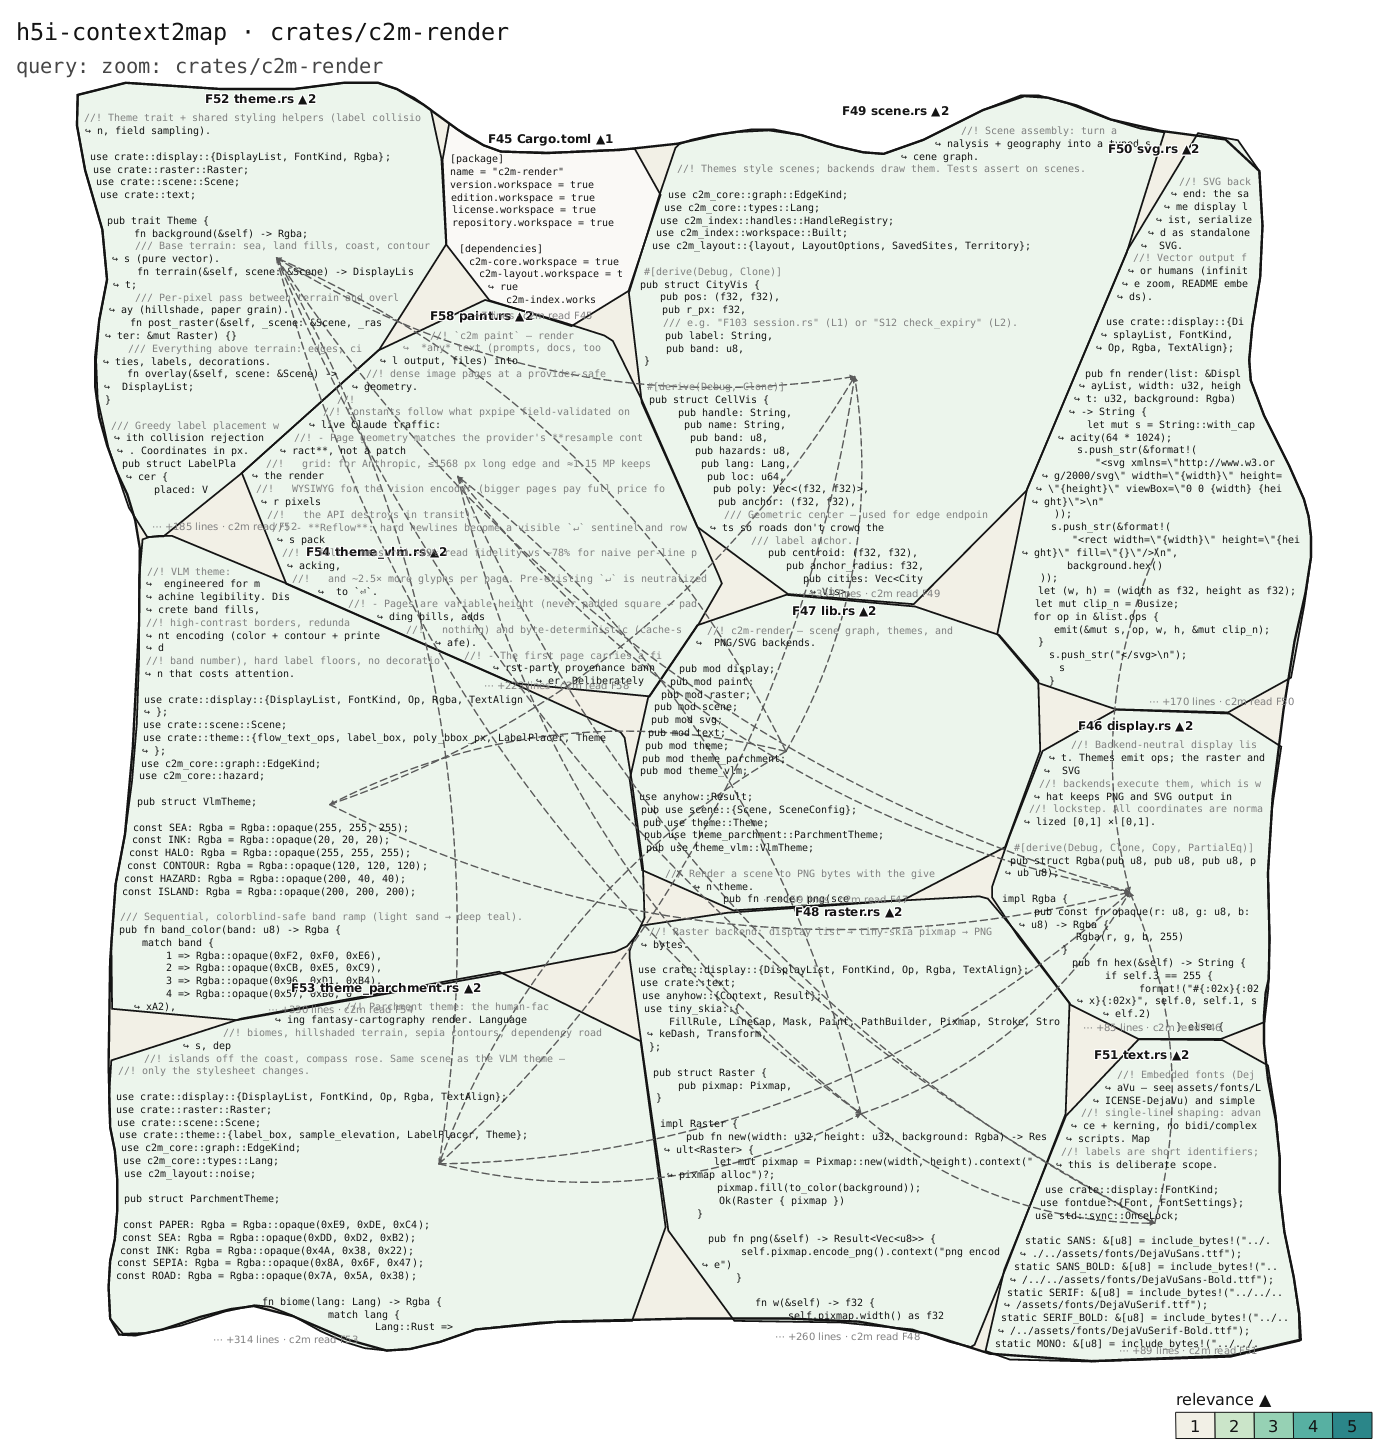
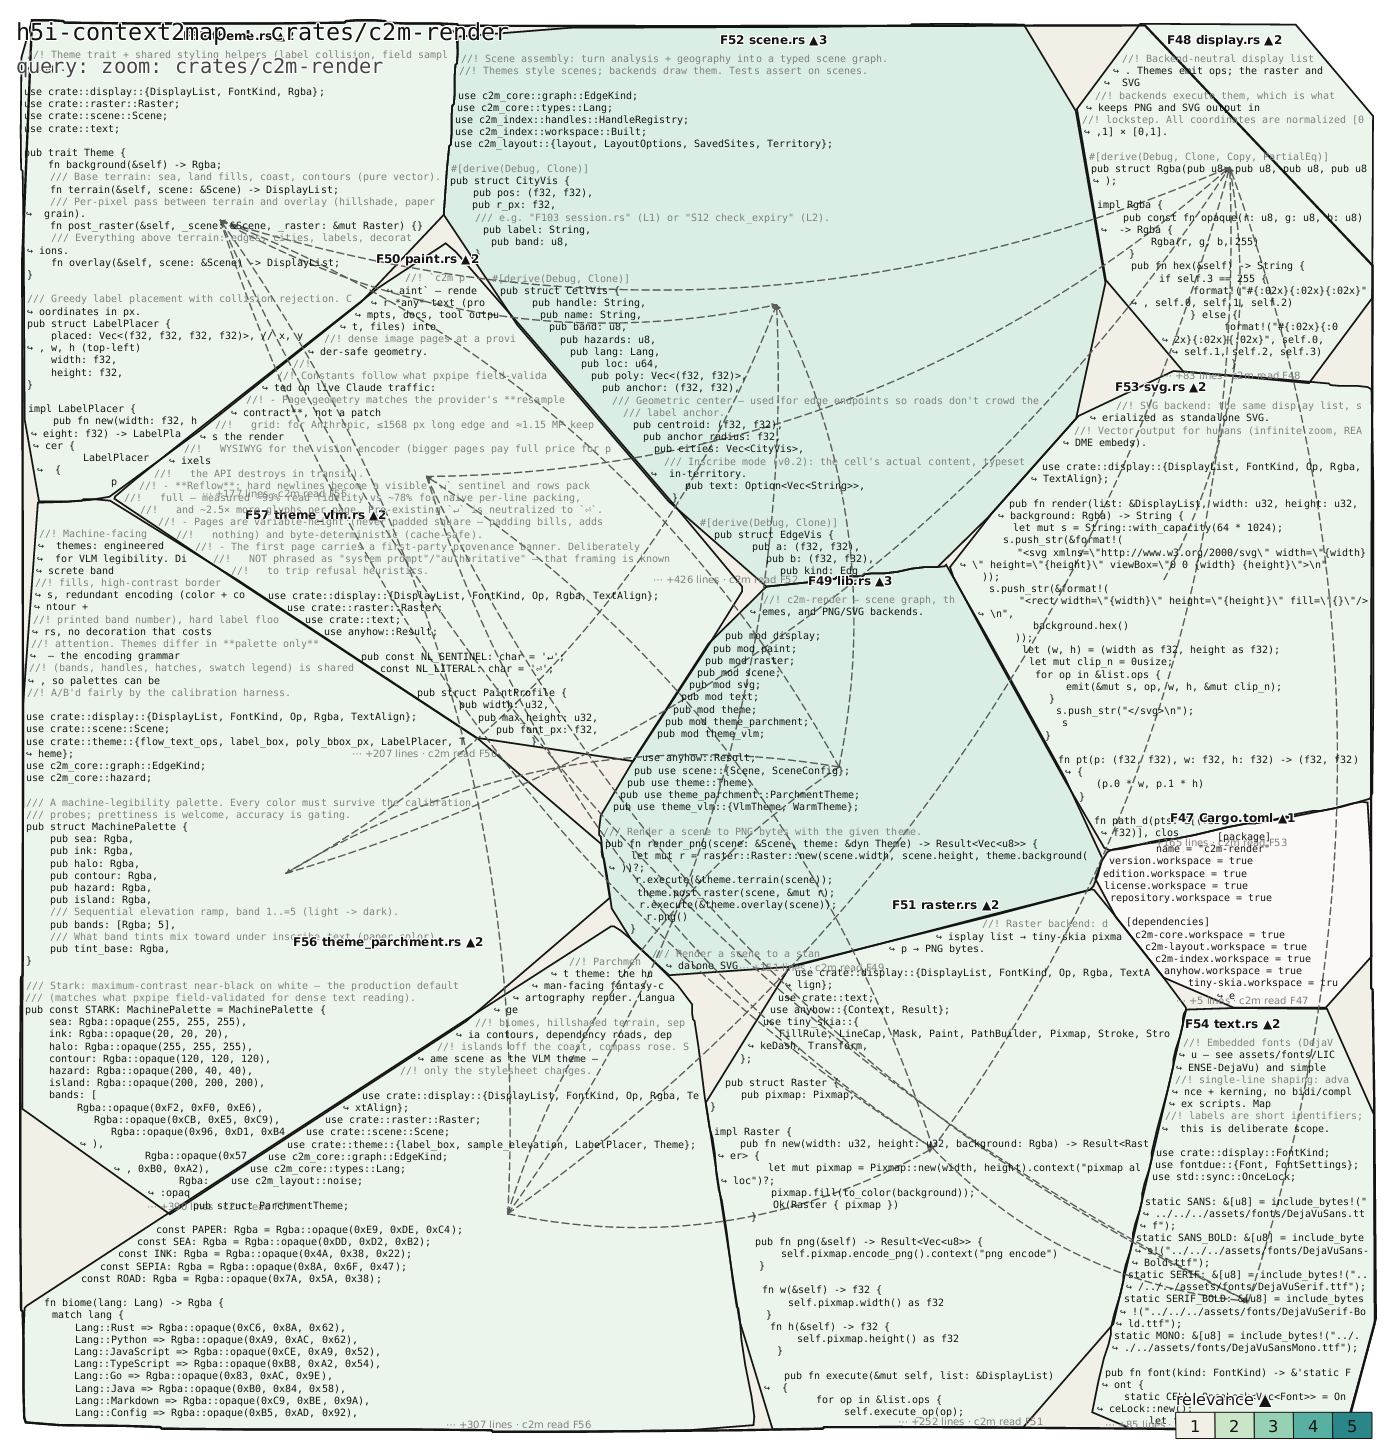
Densify all renders toward pxpipe-level fill
- RDP tolerance 1.4 -> 0.8 grid px: adjacent cells simplify almost
  identically, closing the visible channels between territories.
- Coastline waviness is now a layout parameter (coast_amp); text-
  bearing maps use a calm coast (0.18) and a 1.8% sea margin, the
  scenic defaults drop to 0.45/5.5%.
- Text flow: line height 1.28 -> 1.22, cell padding 0.45em -> 0.35em,
  rows used down to 6 chars wide.

Same token budget now carries visibly more text (fewer spill markers
on the DESIGN section map). README assets regenerated at the new
density.

Changed region(s): [[0.0, 0.0, 0.9829, 0.989], [0.3071, 0.9581, 0.43, 0.989], [0.645, 0.1545, 0.6757, 0.1854]]

diff --git a/crates/c2m-render/src/scene.rs b/crates/c2m-render/src/scene.rs
@@ -266,8 +266,10 @@ pub fn build_doc(sections: &[DocSection], cfg: &SceneConfig) -> Scene {
         aspect: cfg.width as f32 / cfg.height as f32,
         seed: cfg.seed,
         n_islands: 0,
-        // text-bearing maps: the sea is a sliver — pixels carry text
-        margin: 0.030,
+        // text-bearing maps: the sea is a sliver and the coast is calm —
+        // pixels carry text
+        margin: 0.018,
+        coast_amp: 0.18,
         ..Default::default()
     };
     let mut saved = SavedSites::default();
@@ -352,8 +354,9 @@ pub fn build_l2(
         aspect: cfg.width as f32 / cfg.height as f32,
         seed: cfg.seed ^ 0x2200,
         n_islands: 0,
-        // zoom tiles exist to carry content; minimal sea margin
-        margin: if content.is_some() { 0.030 } else { 0.055 },
+        // zoom tiles exist to carry content; minimal, calm sea
+        margin: if content.is_some() { 0.018 } else { 0.045 },
+        coast_amp: if content.is_some() { 0.18 } else { 0.40 },
         ..Default::default()
     };
     let l = layout(&territories, &lopts, saved);

diff --git a/crates/c2m-layout/src/lib.rs b/crates/c2m-layout/src/lib.rs
@@ -94,6 +94,9 @@ pub struct LayoutOptions {
     pub seed: u64,
     /// Sea margin as a fraction of the canvas.
     pub margin: f32,
+    /// Coastline waviness: fraction of the margin the coast may wander.
+    /// High = scenic; low = dense (more canvas is land).
+    pub coast_amp: f32,
     /// How many external-dep islands to place.
     pub n_islands: usize,
 }
@@ -104,7 +107,8 @@ impl Default for LayoutOptions {
             grid: 448,
             aspect: 1.0,
             seed: 0xC2A9,
-            margin: 0.085,
+            margin: 0.055,
+            coast_amp: 0.45,
             n_islands: 12,
         }
     }
@@ -117,7 +121,7 @@ pub fn layout(territories: &[Territory], opts: &LayoutOptions, saved: &mut Saved
     let gh = ((opts.grid as f32 / opts.aspect).round() as usize).max(64);
     let n = territories.len();
 
-    let land = grid::land_mask(gw, gh, opts.margin, opts.seed);
+    let land = grid::land_mask(gw, gh, opts.margin, opts.coast_amp, opts.seed);
     let land_count = land.iter().filter(|&&l| l).count().max(1);
 
     // --- sites: persisted or hash-seeded, snapped into land ---

diff --git a/crates/c2m-render/src/theme.rs b/crates/c2m-render/src/theme.rs
@@ -126,8 +126,8 @@ pub fn flow_text_ops(
     use crate::display::{Op, TextAlign};
     let font = FontKind::Mono;
     let advance = text::measure("M", size_px, font).max(1.0);
-    let line_h = size_px * 1.28;
-    let pad = size_px * 0.45;
+    let line_h = size_px * 1.22;
+    let pad = size_px * 0.35;
     let (_, _, _, by1) = poly_bbox_px(poly, canvas_w, canvas_h);
 
     let mut ops = Vec::new();
@@ -146,7 +146,7 @@ pub fn flow_text_ops(
         };
         let (x0, x1) = (tx0.max(bx0) + pad, tx1.min(bx1) - pad);
         let capacity = ((x1 - x0) / advance) as usize;
-        if capacity < 8 {
+        if capacity < 6 {
             continue;
         }
 

diff --git a/crates/c2m-layout/src/trace.rs b/crates/c2m-layout/src/trace.rs
@@ -7,7 +7,9 @@ use crate::field::marching_squares;
 use crate::CellShape;
 
 /// RDP tolerance in *grid pixels* (converted to normalized units per call).
-const RDP_EPS_PX: f32 = 1.4;
+/// Kept tight: adjacent cells simplify independently, so every unit of
+/// tolerance widens the visible channel between them.
+const RDP_EPS_PX: f32 = 0.8;
 
 /// (polygon, centroid, anchor, anchor radius) in normalized coordinates.
 type CellParts = (Vec<(f32, f32)>, (f32, f32), (f32, f32), f32);

diff --git a/crates/c2m-layout/src/grid.rs b/crates/c2m-layout/src/grid.rs
@@ -7,9 +7,8 @@ use rayon::prelude::*;
 /// Continent mask: an inset rounded rectangle whose boundary is warped by
 /// value noise — enough organic character to read as a landmass, without
 /// risking disconnected blobs (the noise only perturbs the edge).
-pub fn land_mask(gw: usize, gh: usize, margin: f32, seed: u64) -> Vec<bool> {
+pub fn land_mask(gw: usize, gh: usize, margin: f32, coast_amp: f32, seed: u64) -> Vec<bool> {
     let mut mask = vec![false; gw * gh];
-    let coast_amp = 0.55; // fraction of margin the coast may wander
     for y in 0..gh {
         for x in 0..gw {
             let nx = (x as f32 + 0.5) / gw as f32;